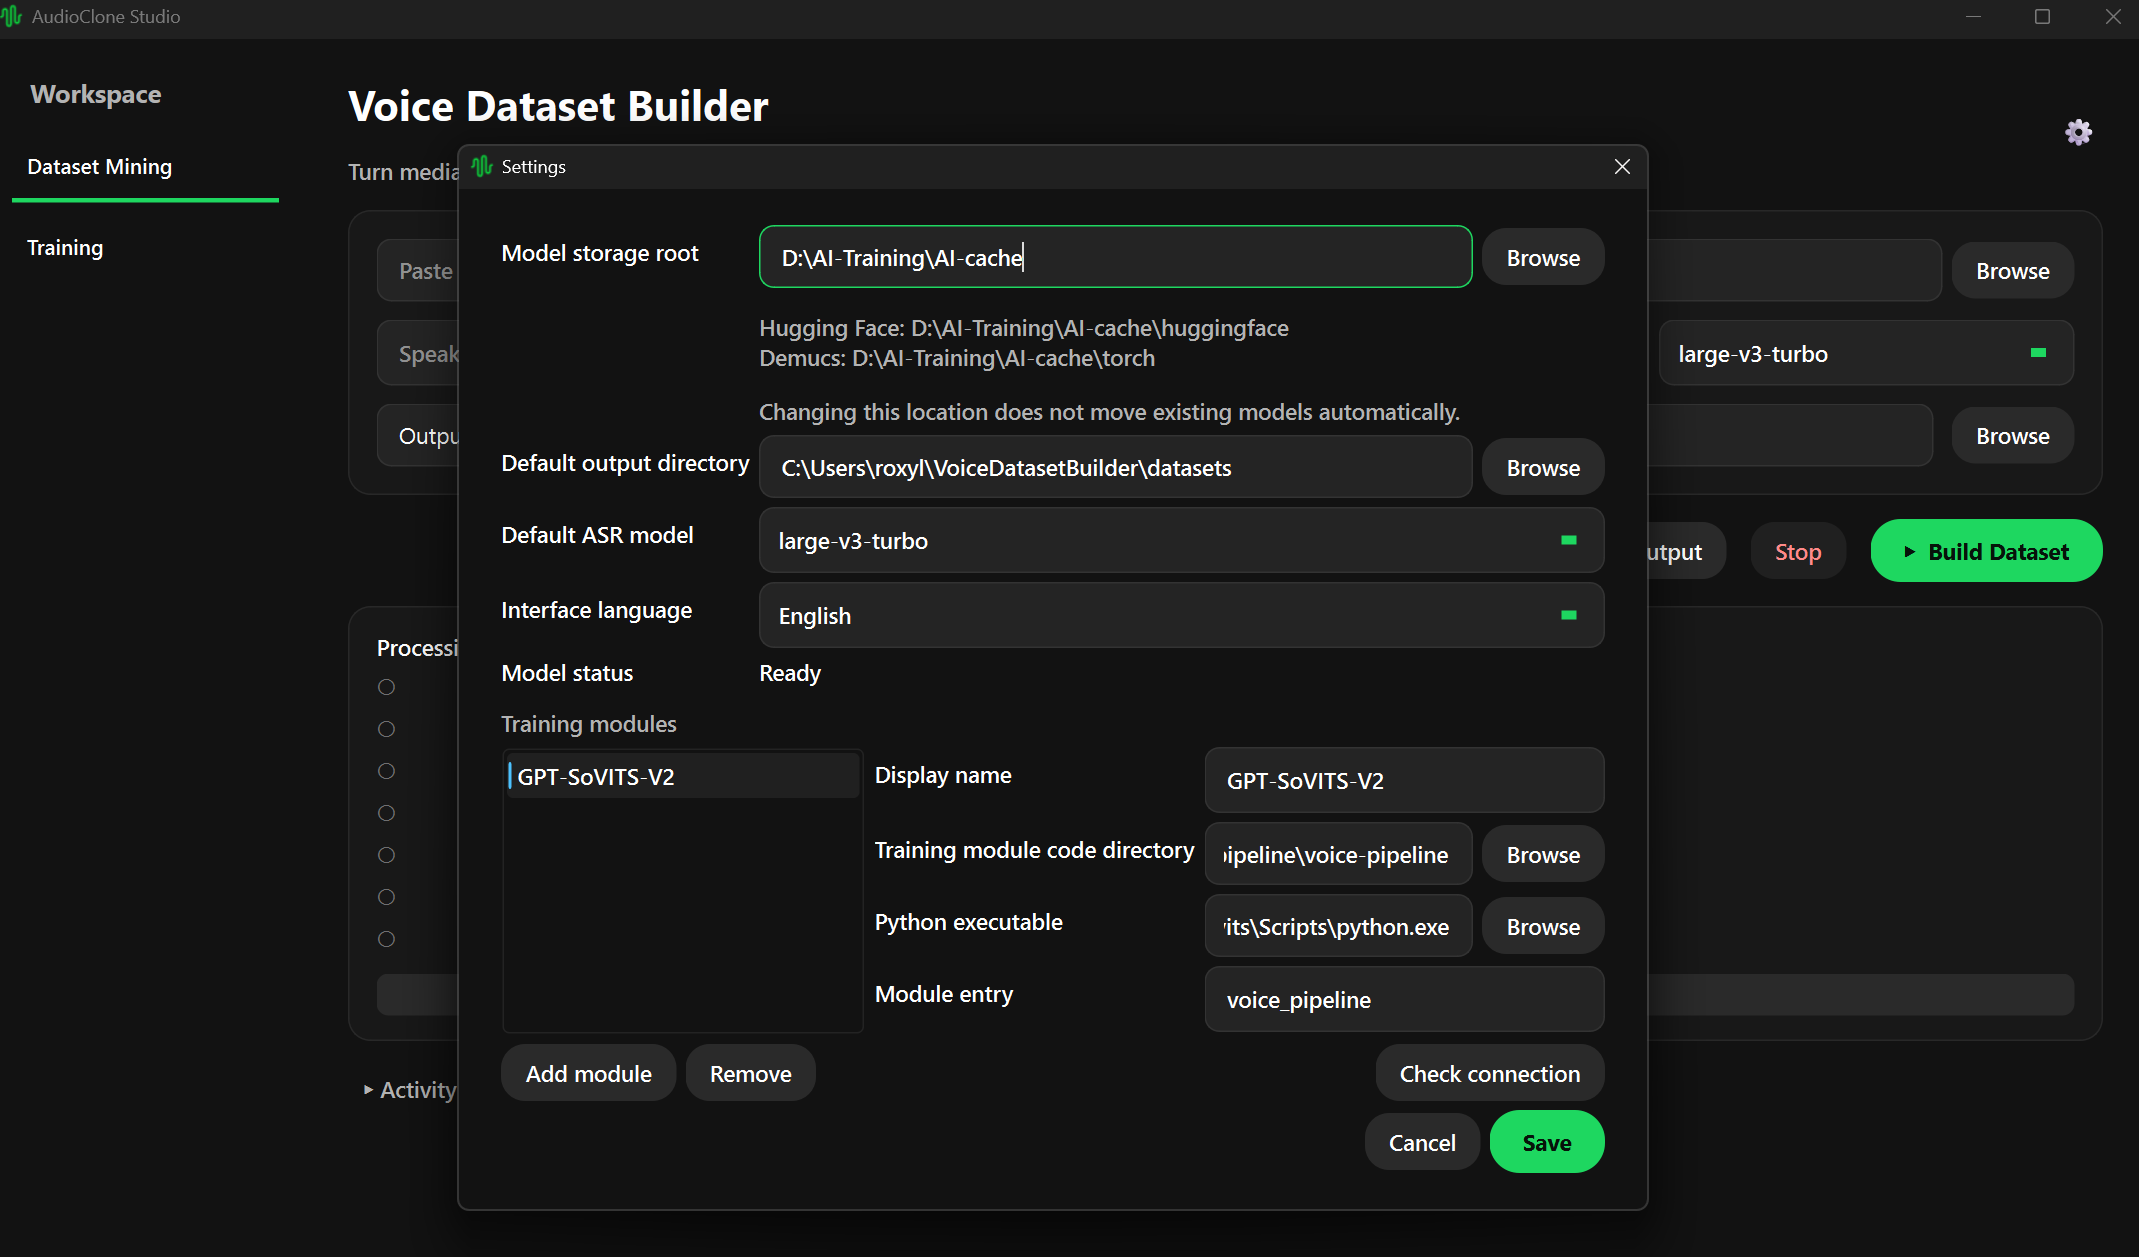
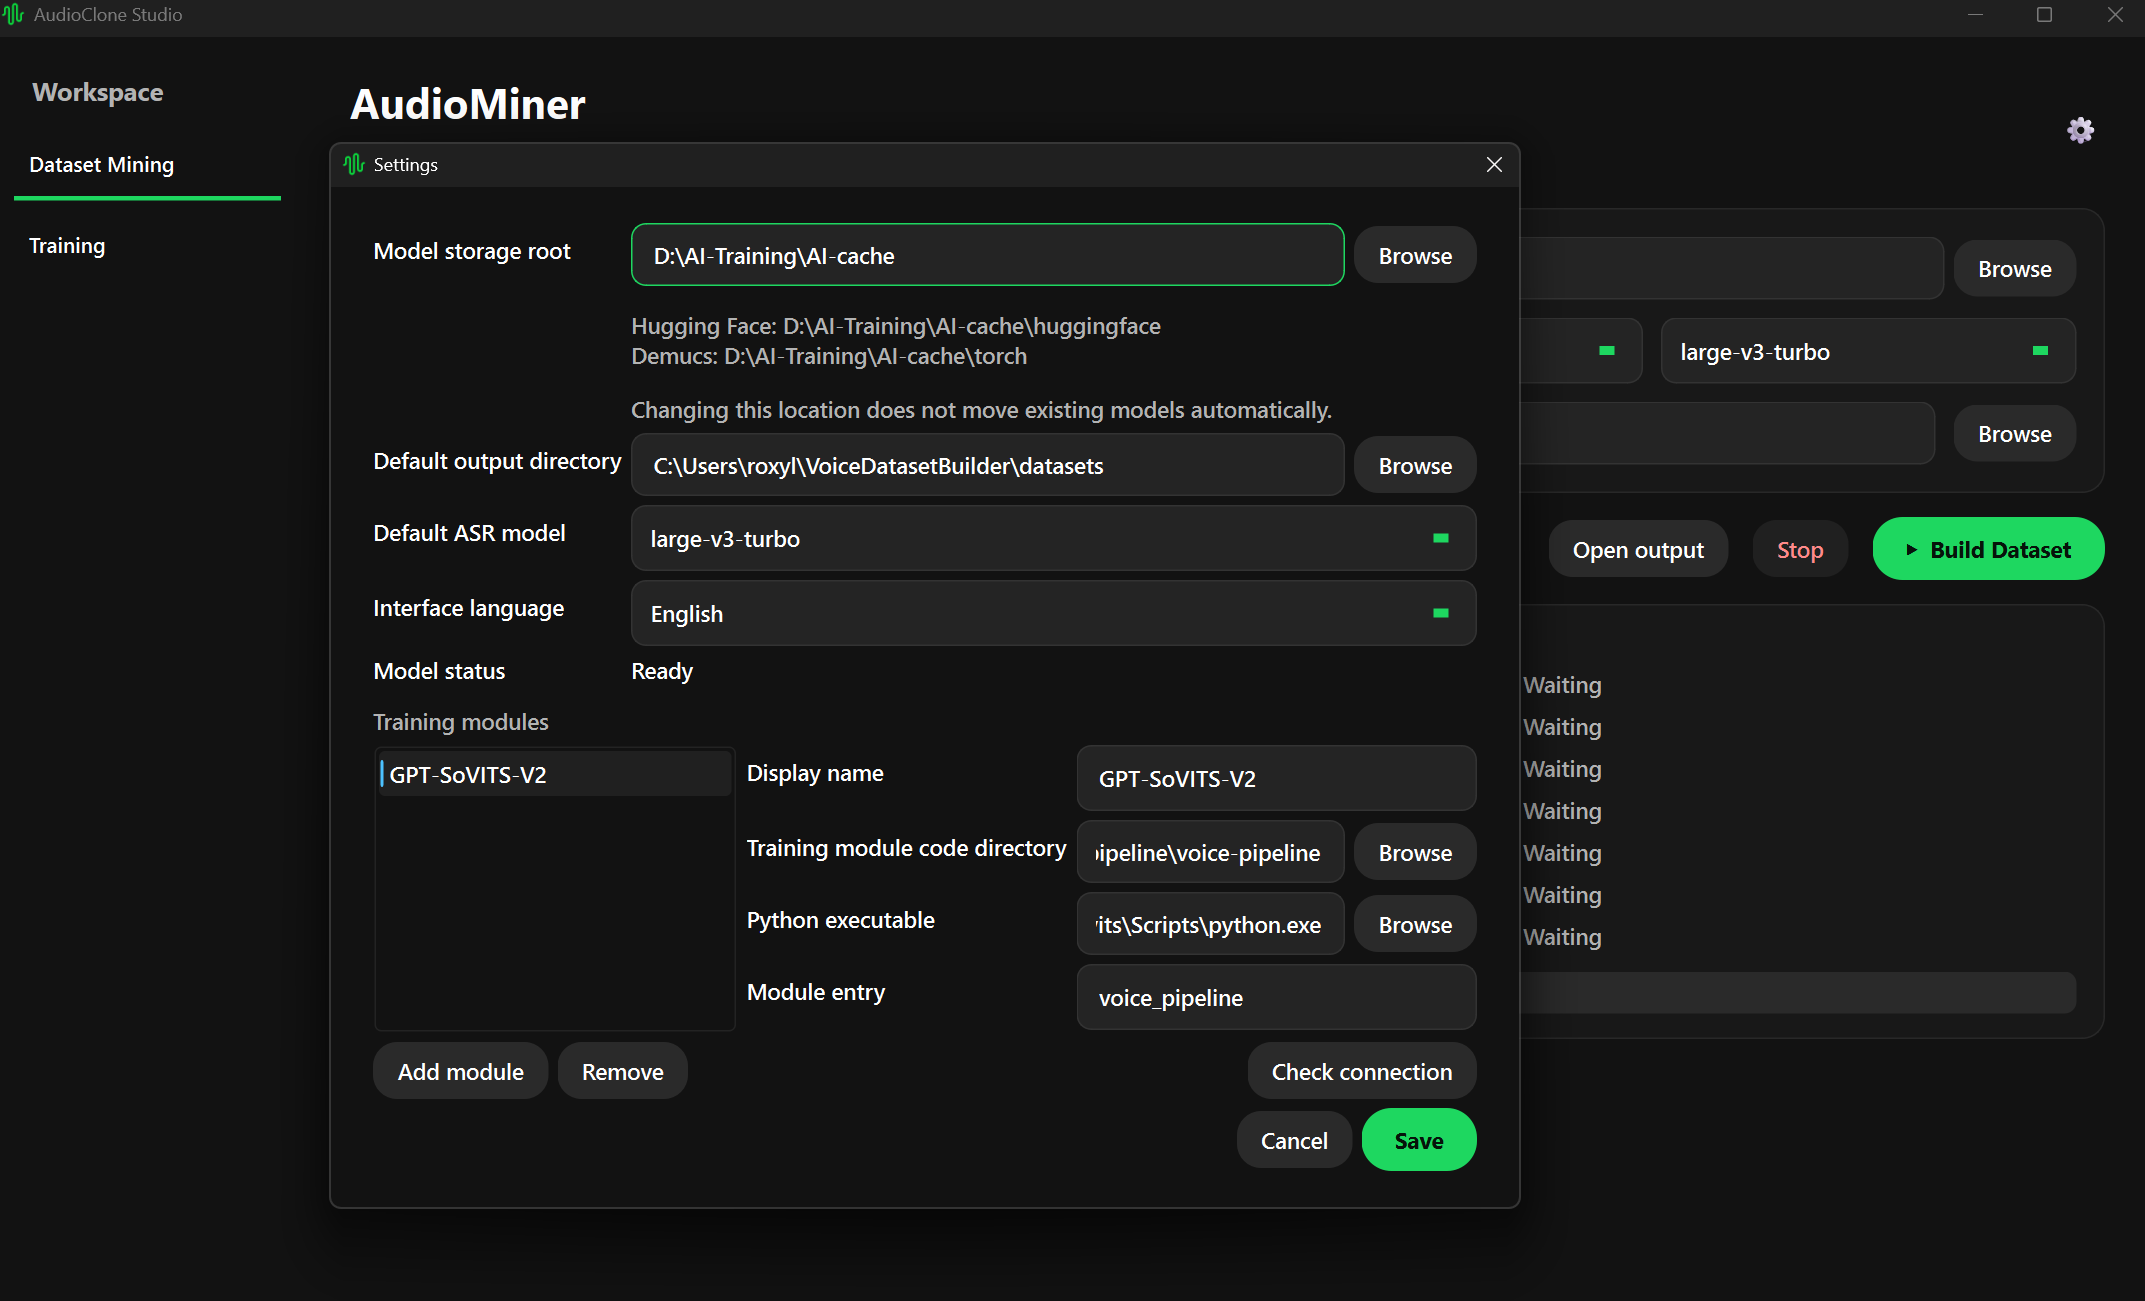
前端统一为AudioMiner

diff --git a/tts_builder/gui/app.py b/tts_builder/gui/app.py
@@ -25,7 +25,7 @@ def resource_path(relative_path: str) -> Path:
 def create_application(argv=None) -> QApplication:
     app = QApplication.instance() or QApplication(argv or sys.argv)
 
-    app.setApplicationName("Voice Dataset Builder")
+    app.setApplicationName("AudioMiner")
     app.setStyleSheet(APP_QSS)
     install_wheel_guard(app)
 

diff --git a/tests/gui/test_standalone_compatibility.py b/tests/gui/test_standalone_compatibility.py
@@ -24,7 +24,7 @@ def test_empty_module_configuration_keeps_original_single_page_window(tmp_path):
         )
     )
 
-    assert window.windowTitle() == 'Voice Dataset Builder'
+    assert window.windowTitle() == 'AudioMiner'
     assert window.findChild(QStackedWidget) is None
     assert window.start.isEnabled()
     window.start.click()

diff --git a/tts_builder/gui/i18n.py b/tts_builder/gui/i18n.py
@@ -5,7 +5,7 @@ from PySide6.QtCore import QObject, Signal
 
 CATALOGS = {
     "en": {
-        "app.title": "Voice Dataset Builder",
+        "app.title": "AudioMiner",
         "main.subtitle": "Turn media into a clean GPT-SoVITS training dataset",
         "settings.title": "Settings",
         "settings.tooltip": "Settings",

diff --git a/tests/gui/test_adaptive_shell.py b/tests/gui/test_adaptive_shell.py
@@ -75,7 +75,7 @@ def test_empty_configuration_skips_probe_and_keeps_standalone_window(tmp_path):
 
     assert modules == ()
     assert type(window) is MainWindow
-    assert window.windowTitle() == "Voice Dataset Builder"
+    assert window.windowTitle() == "AudioMiner"
     app.processEvents()
     window.close()
 
